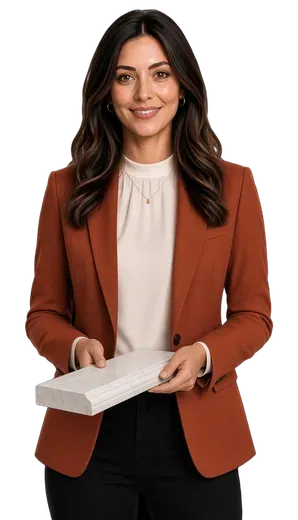
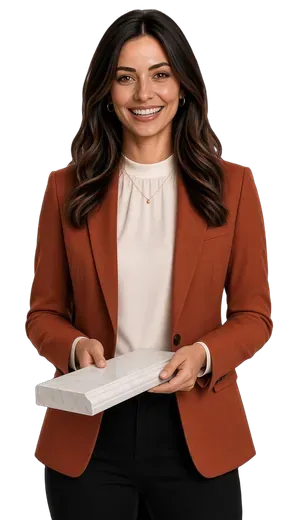
Refresh Gigi's looks and show window samples on the windows page.
Replace the six rotating cutouts in place and rotate a black or white window sample only on /windows, at the same size.

Changed region(s): [[0.3926, 0.0923, 0.5738, 0.2462]]

diff --git a/lib/gigi-looks.ts b/lib/gigi-looks.ts
@@ -8,10 +8,16 @@ export const GIGI_LOOKS = [
   "gigi-fan-deck",
 ] as const;
 
-export type GigiLook = (typeof GIGI_LOOKS)[number];
+/** Window-sample looks. These rotate on the windows page only. */
+export const GIGI_WINDOW_LOOKS = ["gigi-windows-black", "gigi-windows-white"] as const;
+
+export type GigiLook = (typeof GIGI_LOOKS)[number] | (typeof GIGI_WINDOW_LOOKS)[number];
 
 /** Index of the look shown on this page load. Advanced on every load. */
 export const GIGI_LOOK_STORAGE_KEY = "gigi-look-index";
+
+/** Separate index so a windows-page visit does not move the main rotation. */
+export const GIGI_WINDOW_LOOK_STORAGE_KEY = "gigi-windows-look-index";
 
 export type GigiLookStorage = {
   getItem(key: string): string | null;
@@ -22,27 +28,41 @@ function mod(value: number, length: number) {
   return ((value % length) + length) % length;
 }
 
+function advanceLook<T extends string>(storage: GigiLookStorage, key: string, looks: readonly T[]): T {
+  let next = 0;
+  try {
+    const raw = storage.getItem(key);
+    if (raw != null && raw !== "") {
+      const previous = Number.parseInt(raw, 10);
+      if (Number.isInteger(previous)) next = mod(previous + 1, looks.length);
+    }
+  } catch {
+    return looks[0];
+  }
+  try {
+    storage.setItem(key, String(next));
+  } catch {
+    /* private mode still shows a look for this load */
+  }
+  return looks[next];
+}
+
 /**
  * Advance the stored index by one and return the look for this page load.
  * A missing or unreadable index starts at the first look.
  */
-export function advanceGigiLook(storage: GigiLookStorage): GigiLook {
-  let next = 0;
-  try {
-    const raw = storage.getItem(GIGI_LOOK_STORAGE_KEY);
-    if (raw != null && raw !== "") {
-      const previous = Number.parseInt(raw, 10);
-      if (Number.isInteger(previous)) next = mod(previous + 1, GIGI_LOOKS.length);
-    }
-  } catch {
-    return GIGI_LOOKS[0];
-  }
-  try {
-    storage.setItem(GIGI_LOOK_STORAGE_KEY, String(next));
-  } catch {
-    /* private mode still shows a look for this load */
-  }
-  return GIGI_LOOKS[next];
+export function advanceGigiLook(storage: GigiLookStorage): (typeof GIGI_LOOKS)[number] {
+  return advanceLook(storage, GIGI_LOOK_STORAGE_KEY, GIGI_LOOKS);
+}
+
+/** Advance the windows-page index. Black, then white, then black again. */
+export function advanceGigiWindowLook(storage: GigiLookStorage): (typeof GIGI_WINDOW_LOOKS)[number] {
+  return advanceLook(storage, GIGI_WINDOW_LOOK_STORAGE_KEY, GIGI_WINDOW_LOOKS);
+}
+
+export function isWindowsPath(pathname: string) {
+  const path = pathname.replace(/\/+$/, "") || "/";
+  return path === "/windows";
 }
 
 export function gigiLookSrc(look: GigiLook, size: "full" | "sm") {

diff --git a/lib/gigi-looks.test.ts b/lib/gigi-looks.test.ts
@@ -1,6 +1,16 @@
 import assert from "node:assert/strict";
 import test from "node:test";
-import { GIGI_LOOKS, GIGI_LOOK_STORAGE_KEY, advanceGigiLook, gigiLookSrc, type GigiLookStorage } from "./gigi-looks";
+import {
+  GIGI_LOOKS,
+  GIGI_LOOK_STORAGE_KEY,
+  GIGI_WINDOW_LOOKS,
+  GIGI_WINDOW_LOOK_STORAGE_KEY,
+  advanceGigiLook,
+  advanceGigiWindowLook,
+  gigiLookSrc,
+  isWindowsPath,
+  type GigiLookStorage,
+} from "./gigi-looks";
 
 function memoryStorage(initial?: string): GigiLookStorage & { value: string | null } {
   const store = { value: initial ?? null };
@@ -63,4 +73,35 @@ test("still returns a look when storage throws", () => {
 test("points each look at a full and a small webp", () => {
   assert.equal(gigiLookSrc("gigi-zellige", "full"), "/images/gigi/gigi-zellige.webp");
   assert.equal(gigiLookSrc("gigi-fan-deck", "sm"), "/images/gigi/gigi-fan-deck-sm.webp");
+  assert.equal(gigiLookSrc("gigi-windows-black", "full"), "/images/gigi/gigi-windows-black.webp");
+  assert.equal(gigiLookSrc("gigi-windows-white", "sm"), "/images/gigi/gigi-windows-white-sm.webp");
+});
+
+test("window samples rotate on their own index", () => {
+  const storage = memoryStorage();
+  assert.deepEqual(
+    [advanceGigiWindowLook(storage), advanceGigiWindowLook(storage), advanceGigiWindowLook(storage)],
+    [GIGI_WINDOW_LOOKS[0], GIGI_WINDOW_LOOKS[1], GIGI_WINDOW_LOOKS[0]],
+  );
+  assert.equal(storage.value, "0");
+  assert.equal(advanceGigiLook(memoryStorage()), GIGI_LOOKS[0]);
+});
+
+test("window samples use a separate storage key and only the windows path", () => {
+  const keys: string[] = [];
+  const storage: GigiLookStorage = {
+    getItem(key) {
+      keys.push(key);
+      return null;
+    },
+    setItem(key) {
+      keys.push(key);
+    },
+  };
+  advanceGigiWindowLook(storage);
+  assert.deepEqual(keys, [GIGI_WINDOW_LOOK_STORAGE_KEY, GIGI_WINDOW_LOOK_STORAGE_KEY]);
+  assert.equal(isWindowsPath("/windows"), true);
+  assert.equal(isWindowsPath("/windows/"), true);
+  assert.equal(isWindowsPath("/"), false);
+  assert.equal(isWindowsPath("/gallery"), false);
 });

diff --git a/components/chat-widget.tsx b/components/chat-widget.tsx
@@ -8,7 +8,7 @@ import { Input } from "@/components/ui/input";
 import Link from "next/link";
 import { DesignLink } from "@/components/design-link";
 import { GigiCutout, GigiFace } from "@/components/gigi-cutout";
-import { advanceGigiLook, type GigiLook } from "@/lib/gigi-looks";
+import { advanceGigiLook, advanceGigiWindowLook, isWindowsPath, type GigiLook } from "@/lib/gigi-looks";
 import {
   CHAT_AGENT_NAME,
   CHAT_ANSWERS,
@@ -170,13 +170,14 @@ export function ChatWidget({ raised = false, formPage = false }: { raised?: bool
   const bubbleHiddenRef = useRef(true);
   const openRef = useRef(false);
 
+  const windowsPage = isWindowsPath(pathname);
   useLayoutEffect(() => {
     try {
-      setLook(advanceGigiLook(window.localStorage));
+      setLook(windowsPage ? advanceGigiWindowLook(window.localStorage) : advanceGigiLook(window.localStorage));
     } catch {
-      setLook("gigi-tiles");
+      setLook(windowsPage ? "gigi-windows-black" : "gigi-tiles");
     }
-  }, []);
+  }, [windowsPage]);
 
   useEffect(() => {
     bubbleReadyRef.current = bubbleReady;

diff --git a/app/windows/page.tsx b/app/windows/page.tsx
@@ -12,7 +12,7 @@ export const metadata: Metadata = {
 
 export default function WindowsPage() {
   return (
-    <SiteShell chat={false}>
+    <SiteShell>
       <main id="content" tabIndex={-1}>
         <WindowsTool />
       </main>
